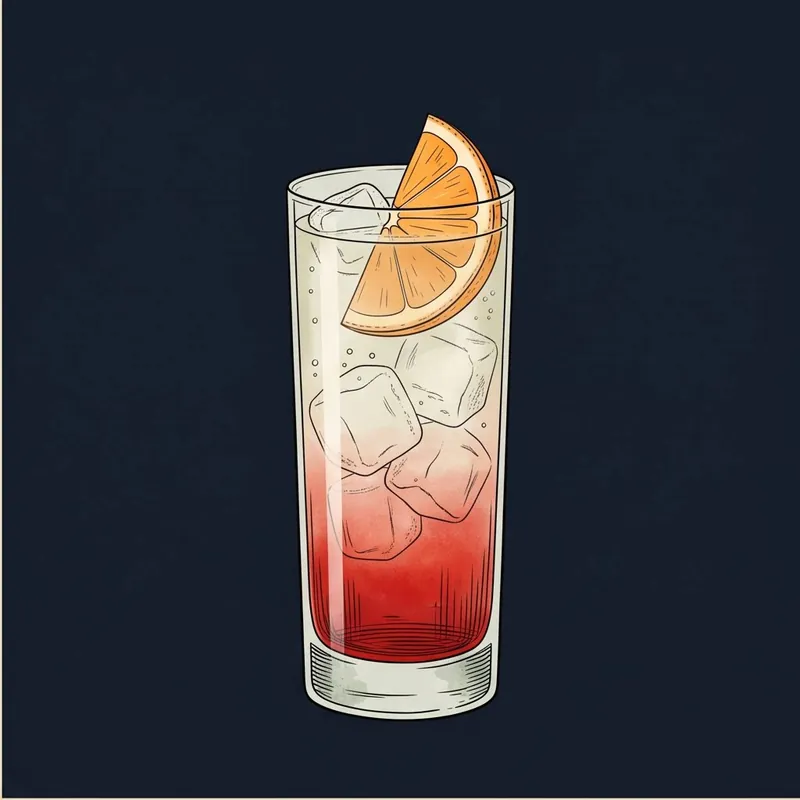
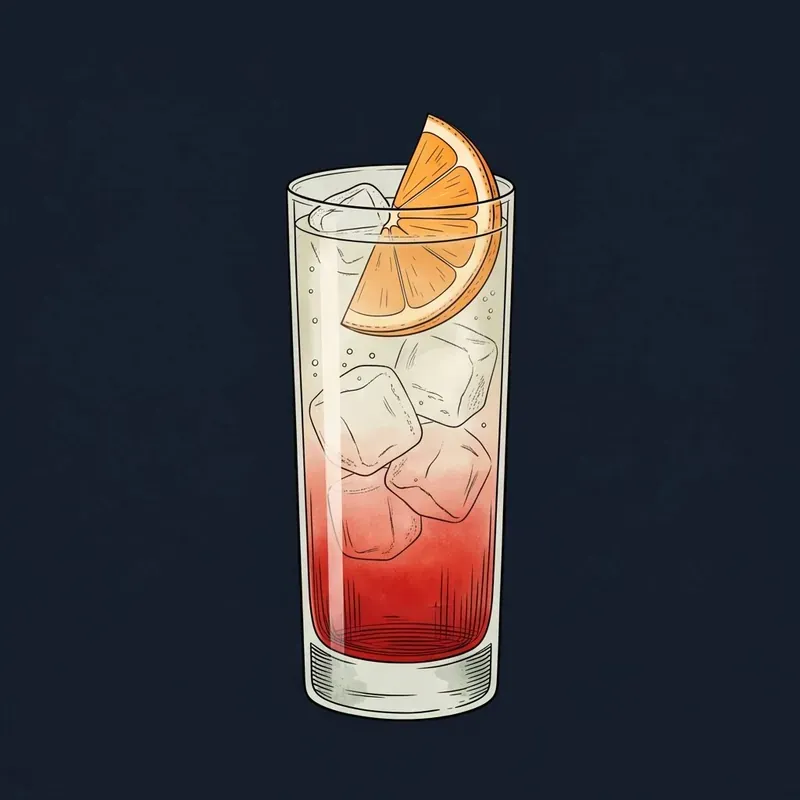
Add files via upload

Changed region(s): [[0.0, 0.9688, 0.0312, 1.0], [0.0, 0.875, 0.0312, 0.9062]]

diff --git a/src/lib/drink-art.ts b/src/lib/drink-art.ts
@@ -59,6 +59,12 @@ export const DRINK_ART: Record<string, string> = {
   "pisco-sour": "/images/cocktails/pisco-sour.webp",
   "between-the-sheets": "/images/cocktails/between-the-sheets.webp",
   "kir-royale": "/images/cocktails/kir-royale.webp",
+  // 无酒精系
+  "virgin-mojito": "/images/cocktails/virgin-mojito.webp",
+  "shirley-temple": "/images/cocktails/shirley-temple.webp",
+  "citrus-highball": "/images/cocktails/citrus-highball.webp",
+  "cucumber-tonic": "/images/cocktails/cucumber-tonic.webp",
+  "coconut-cooler": "/images/cocktails/coconut-cooler.webp",
 };
 
 export function drinkArt(id: string): string | undefined {

diff --git a/CHANGELOG-20260831.md b/CHANGELOG-20260831.md
@@ -1,3 +1,23 @@
+# 变更说明 · 2026-09-02（★全 50 款插画收官 · 50/50 + 早期批次边缘修复）
+
+无酒精系 5 款齐图收官：处女莫吉托、雪莉谭宝、柑橘高球、黄瓜通宁、椰菠萝。
+收官款椰菠萝为全库唯一飓风杯：v1 撞上"杯脚实心暗块"历史红线（3/10），v2 改用
+正向描述（杯脚=两条竖直细墨线、中间直接透出背景；底座=细墨线椭圆环、环内与
+背景同色中空）后六项全 10/10 采纳。
+
+同时做了一次全库边缘体检，查出早期 9 张（杏仁酸酒、美式、阿佩罗气泡、自由古巴、
+莫斯科骡子、帕洛玛、斯巴克良、龙舌兰日出、汤米玛格丽特）最外圈残留 1~4px 米色
+细线（早期换背景留下的抗锯齿边，四角检测因采样点内缩 15px 而漏检）。以
+"中心区域字节原样保留、仅四边贴 4px 纯背景色带"的无损方式刷除，逐张验证
+"内部原样=True"，全库 50 张现通过白边 / 四角背景 / 边缘残留带三项终检。
+
+新增第五道关卡：ring_diag 边缘残留带检测（逐边向内探连续亮带像素数）。
+
+进度：威士忌 8 + 金酒 8 + 朗姆 7 + 龙舌兰 6 + 伏特加 6 + 干邑白兰地 5
++ 利口开胃 5 + 无酒精 5 = **50/50 八大类目全部集齐**。
+
+---
+
 # 变更说明 · 2026-09-02（龙舌兰分类插画收官 · 总 45/50）
 
 牧场水一发 60/60 满分（淡粉葡萄柚blush清透酒液一次画准）。恶魔 v1 内容全对
